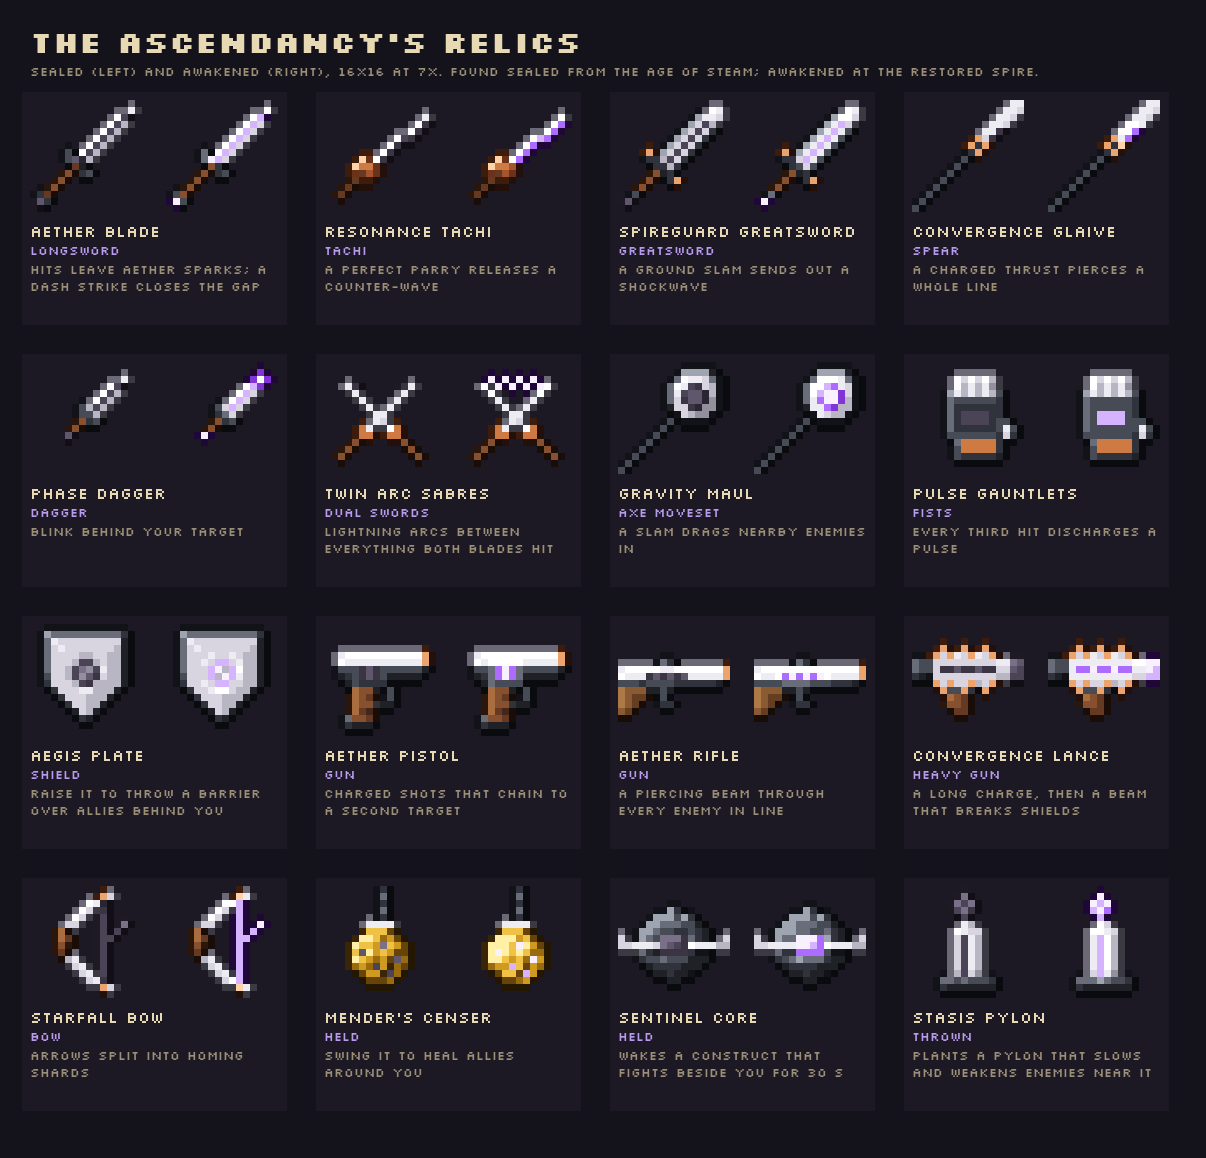
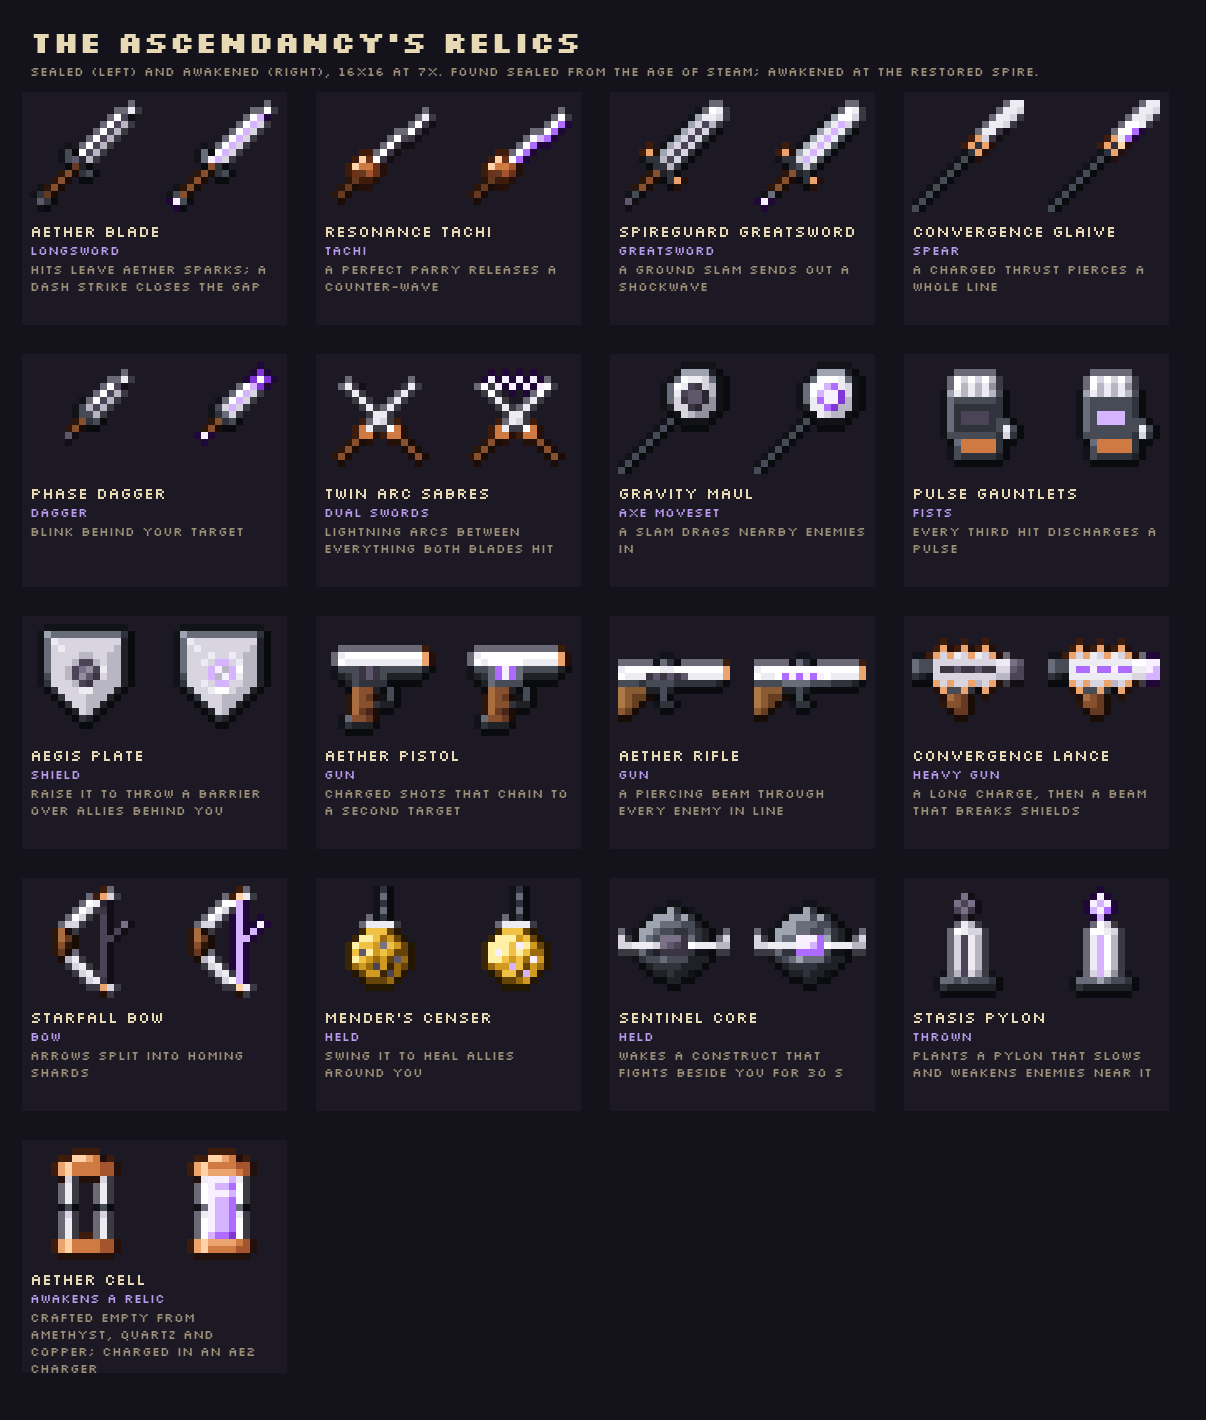
Draw the Aether Cell, empty and charged

diff --git a/branding/src/relics.py b/branding/src/relics.py
@@ -273,6 +273,20 @@ def stasis_pylon(ae):
     return [layer(base), layer(column, form="cylv"), layer(seam, form="none", shadow="inset"), layer(crystal)]
 
 
+def aether_cell(ae, f=0):
+    """The Aether Cell that awakens a relic: a glass vial in copper caps. Crafted empty, charged in AE2's Charger."""
+    glass = {(x, y): ("quartz", 4) for x in (5, 10) for y in range(4, 13)}
+    fill = {(x, y): (ae, 3) for x in range(6, 10) for y in range(4, 13)} if ae == "aether" else {}
+    if ae == "aether":
+        for x in range(6, 10):
+            fill[(x, 4 + (f * 2) % 8)] = (ae, 5)  # a bubble rising
+    caps = {}
+    caps.update({(x, y): ("copper", 3) for x in range(4, 12) for y in (2, 3, 13, 14)})
+    caps.update({(x, 1): ("copper", 4) for x in range(6, 10)})
+    bands = {(x, 8): ("iron", 3) for x in (5, 10)}
+    return [layer(fill, form="cylv", shadow="none"), layer(glass, form="none"), layer(caps, form="cylv"), layer(bands, form="none")]
+
+
 # id, name, how it fights, signature, drawing function (some take a frame for their animation)
 RELICS = [
     ("aether_blade", "Aether Blade", "Longsword", "Hits leave aether sparks; a dash strike closes the gap", aether_blade),
@@ -322,6 +336,17 @@ def main():
         with open(f"{OUT}/{rid}.png.mcmeta", "w") as fh:
             fh.write('{"animation": {"frametime": 5, "interpolate": false}}\n')
         cards.append((name, kind, sig, sealed, frames[1]))
+    empty = render(aether_cell("aether_dead"))
+    empty.save(f"{OUT}/aether_cell_empty.png")
+    cell_frames = [draw(aether_cell, "aether", f) for f in range(4)]
+    strip = Image.new("RGBA", (16, 64))
+    for i, fr in enumerate(cell_frames):
+        strip.paste(fr, (0, 16 * i))
+    strip.save(f"{OUT}/aether_cell.png")
+    with open(f"{OUT}/aether_cell.png.mcmeta", "w") as fh:
+        fh.write('{"animation": {"frametime": 5, "interpolate": false}}\n')
+    cards.append(("Aether Cell", "Awakens a relic", "Crafted empty from amethyst, quartz and copper; charged in an AE2 Charger",
+                  empty, cell_frames[1]))
 
     cols, scale, pad = 4, 7, 30
     tile = 16 * scale
